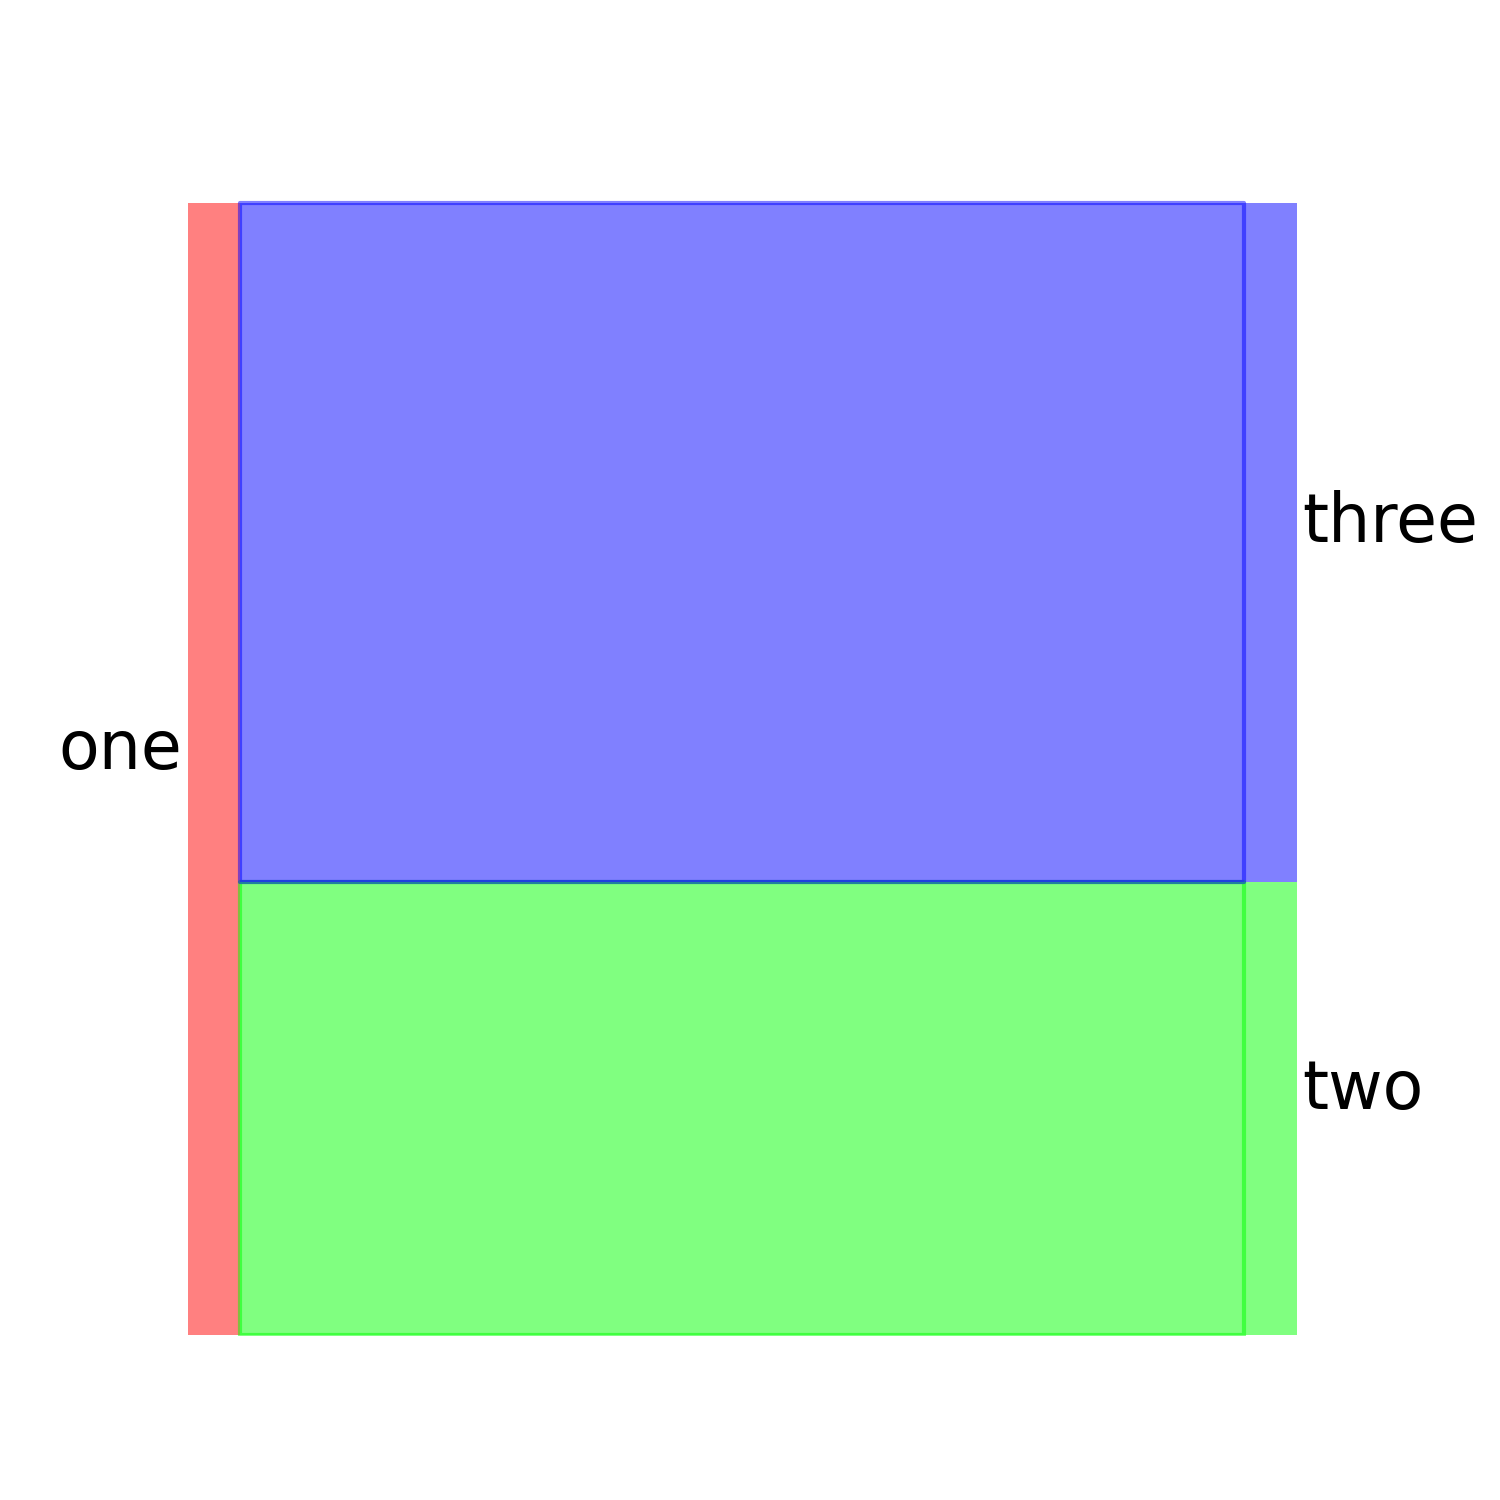
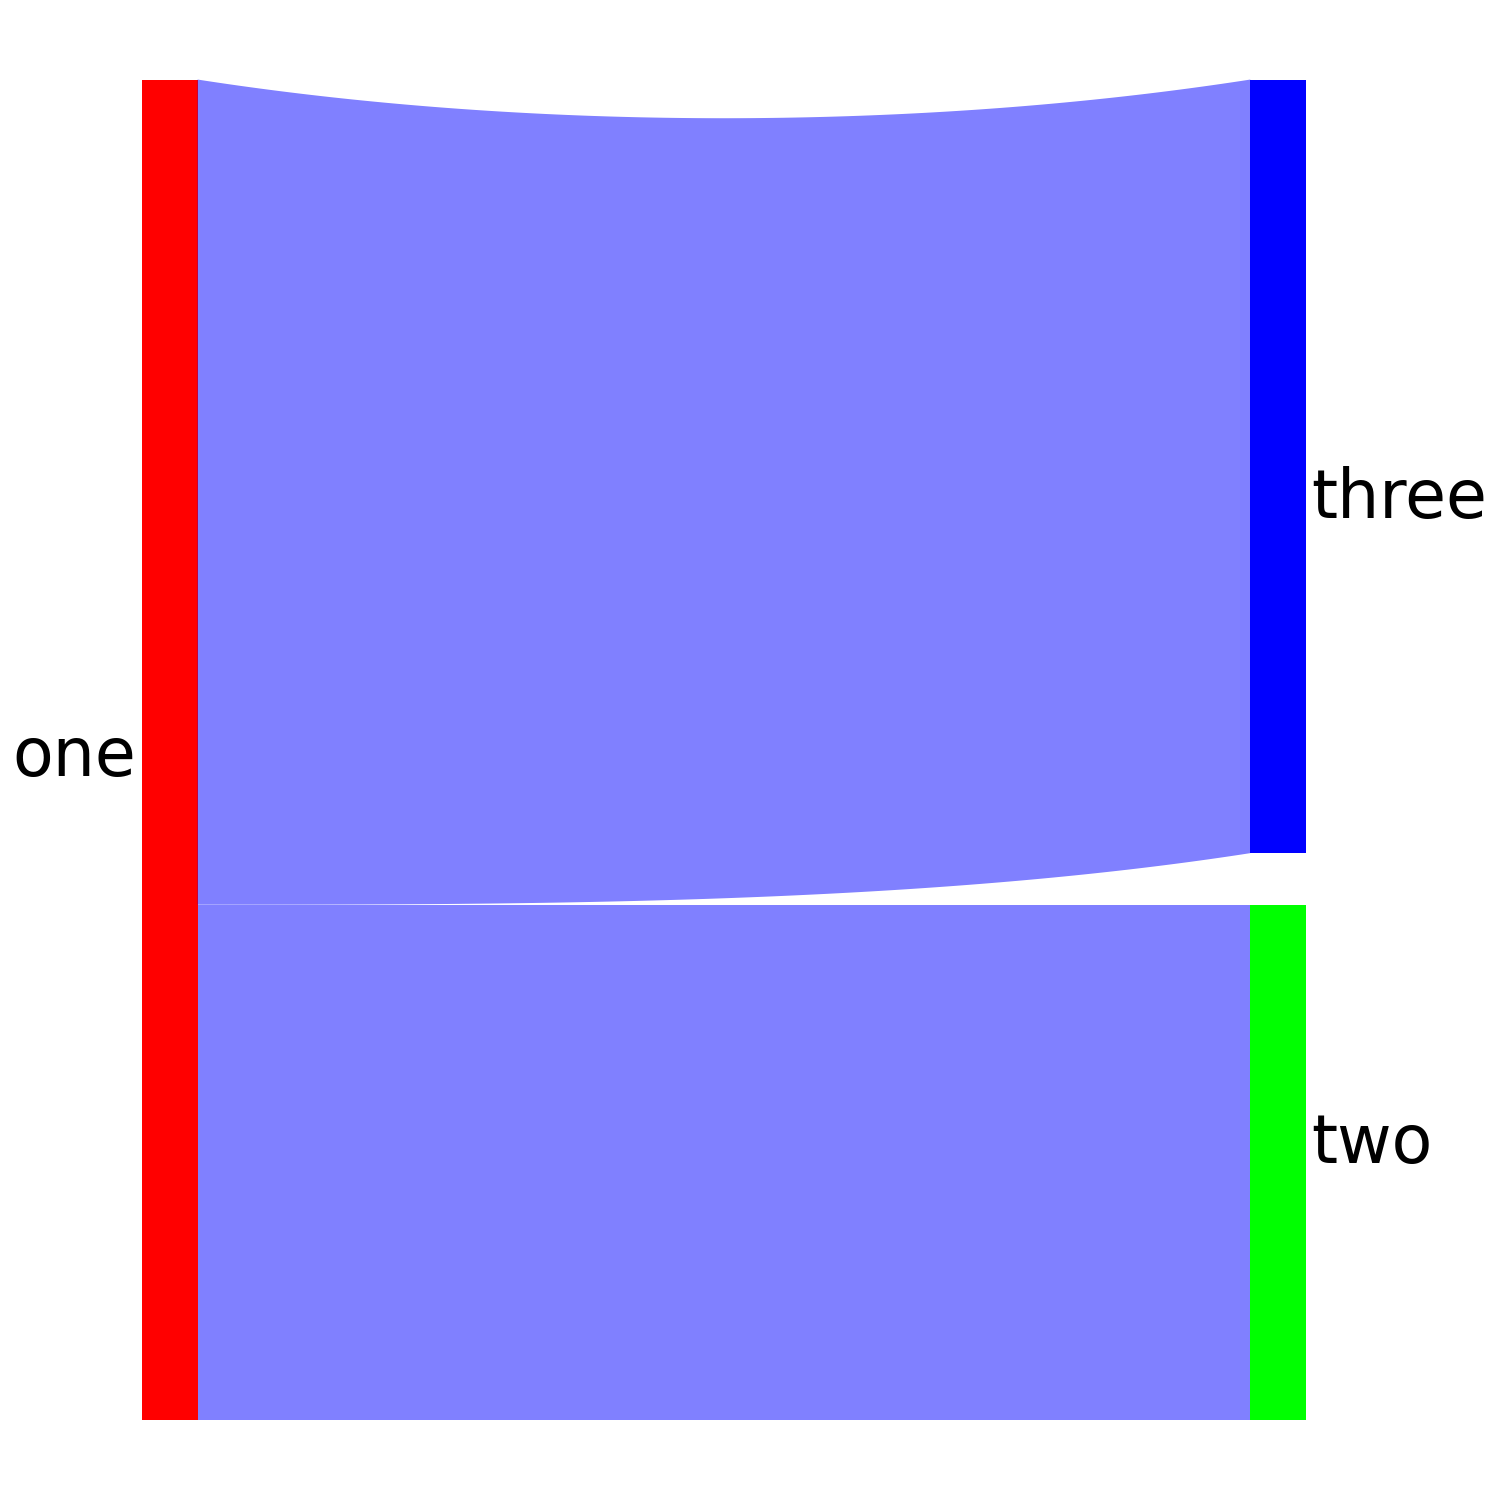
feat: implement bezier curve based flow visuals

diff --git a/alluvial.py b/alluvial.py
@@ -1,7 +1,9 @@
 from matplotlib.patches import Rectangle, PathPatch
+from scipy.special import comb
 import matplotlib.pyplot as plt
 import matplotlib.path as p
 import pandas as pd
+import numpy as np
 
 df = pd.read_csv("first.csv")
 
@@ -9,107 +11,118 @@ df = pd.read_csv("first.csv")
 class Alluvial:
 
     def __init__(self, df, left, right):
-        self.fig, self.ax = plt.subplots(figsize=(5, 5))
-
-        plt.axis("off")
+        self.fig, self.ax = plt.subplots(figsize=(5, 5), layout="constrained")
 
         self.data = df[[left, right]]
         sizes = self.size(right)
 
-        self.ax.set_xlim(0, 2.2)
-        self.ax.set_ylim(0, 5.1)
+        self.right_heights = self.data.groupby([left, right]).size().values[::-1]
+
+        self.rect_width = 0.1
+        self.fontsize = 16
+        self.gap = 0.2
+        self.x_values = range(0, len(sizes) + 1, len(sizes))
+
+        self.colors = ["#00ff00ff", "#0000ffff"]
 
         self.draw_rectangles()
-        self.draw_flows()
+        self.draw_flow(hi_lo_y=(5, 2), cumulative_gap=self.gap)
+        self.draw_flow(hi_lo_y=(2, 0), cumulative_gap=0)
         self.add_labels()
 
+        plt.axis("off")
         plt.savefig("first.png", dpi=300)
 
     def size(self, col):
         return self.data.groupby(col).size()[::-1].values
 
     def draw_rectangles(self):
-        width = 0.1
+        left_x, right_x = self.x_values
+
+        cumulative_height = 0
+        for height, fc in zip(self.right_heights, self.colors):
+            self.ax.add_patch(
+                Rectangle(
+                    xy=(right_x, cumulative_height),
+                    width=self.rect_width,
+                    height=height,
+                    fc=fc,
+                )
+            )
+            cumulative_height += height + self.gap
+
         self.ax.add_patch(
             Rectangle(
-                xy=(0, 0),
-                width=width,
-                height=5,
-                facecolor="#ff00007f",
+                xy=(left_x, 0),
+                width=self.rect_width,
+                height=sum(self.right_heights)
+                + (len(self.right_heights) - 1) * self.gap,
+                facecolor="#ff0000ff",
             )
-        )
-        self.ax.add_patch(
-            Rectangle(xy=(2, 0), width=width, height=2, facecolor="#00ff007f")
-        )
-        self.ax.add_patch(
-            Rectangle(xy=(2, 2), width=width, height=3, facecolor="#0000ff7f")
         )
 
     def add_labels(self):
-        fontsize = 16
 
         self.ax.text(
             s="one",
             x=-0.01,
             y=5 / 2,
             ha="right",
-            fontsize=fontsize,
+            fontsize=self.fontsize,
         )
-        self.ax.text(s="two", x=2.11, y=2 / 2, ha="left", fontsize=fontsize)
+        self.ax.text(s="two", x=2.11, y=2 / 2, ha="left", fontsize=self.fontsize)
         self.ax.text(
             s="three",
             x=2.11,
             y=2 + 3 / 2,
             ha="left",
-            fontsize=fontsize,
+            fontsize=self.fontsize,
         )
 
-    def draw_flows(self):
-        verts = [(0.1, 2), (1, 2), (1, 2), (2, 2)]
-        path1 = p.Path(
-            vertices=verts,
-            codes=[p.Path.MOVETO, p.Path.CURVE4, p.Path.CURVE4, p.Path.CURVE4],
-        )
-        patch = PathPatch(path1, color="none", fc="none", lw=2)
-        self.ax.add_patch(patch)
+    def draw_flow(self, hi_lo_y, cumulative_gap):
 
-        verts = [(0.1, 0), (1, 0), (1, 0), (2, 0)]
-        path2 = p.Path(
-            vertices=verts,
-            codes=[p.Path.MOVETO, p.Path.CURVE4, p.Path.CURVE4, p.Path.CURVE4],
-        )
-        patch = PathPatch(path2, color="none", fc="none", lw=2)
-        self.ax.add_patch(patch)
+        left_x = self.x_values[0] + self.rect_width
+        right_x = self.x_values[1]
+        mid_x = (left_x + right_x) / 3
 
-        self.ax.fill_between(
-            path1.vertices[:, 0],
-            path1.vertices[:, 1],
-            path2.vertices[:, 1],
-            color="#00ff007f",
-        )
+        hi_y = hi_lo_y[0]
+        low_y = hi_lo_y[1]
 
-        verts = [(0.1, 2), (1, 2), (1, 2), (2, 2)]
-        path1 = p.Path(
-            vertices=verts,
-            codes=[p.Path.MOVETO, p.Path.CURVE4, p.Path.CURVE4, p.Path.CURVE4],
-        )
-        patch = PathPatch(path1, color="none", fc="none", lw=2)
-        self.ax.add_patch(patch)
+        verts_top = [
+            (left_x, hi_y + cumulative_gap),
+            (mid_x, hi_y),
+            (2 * mid_x, hi_y),
+            (right_x, hi_y + cumulative_gap),
+        ]
+        verts_bottom = [
+            (left_x, low_y),
+            (mid_x, low_y),
+            (2 * mid_x, low_y),
+            (right_x, low_y + cumulative_gap),
+        ]
 
-        verts = [(0.1, 5), (1, 5), (1, 5), (2, 5)]
-        path2 = p.Path(
-            vertices=verts,
-            codes=[p.Path.MOVETO, p.Path.CURVE4, p.Path.CURVE4, p.Path.CURVE4],
-        )
-        patch = PathPatch(path2, color="none", fc="none", lw=2)
-        self.ax.add_patch(patch)
+        curve1 = self.bezier_curve(verts_top, num_points=100)
+        curve2 = self.bezier_curve(verts_bottom, num_points=100)
 
         self.ax.fill_between(
-            path1.vertices[:, 0],
-            path1.vertices[:, 1],
-            path2.vertices[:, 1],
+            x=curve1[:, 0],
+            y1=curve1[:, 1],
+            y2=curve2[:, 1],
             color="#0000ff7f",
+            edgecolor="none",
         )
+
+    @staticmethod
+    def bezier_curve(points, num_points=100):
+        n = len(points) - 1
+        t = np.linspace(0, 1, num_points)
+        curve_points = np.zeros((num_points, 2))
+
+        for i in range(n + 1):
+            bernstein = comb(n, i) * (t**i) * ((1 - t) ** (n - i))
+            curve_points += np.outer(bernstein, points[i])
+
+        return curve_points
 
 
 Alluvial(df=df, left="a", right="b")
